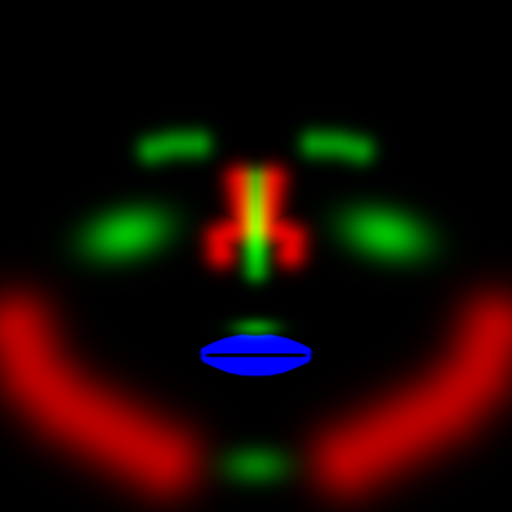
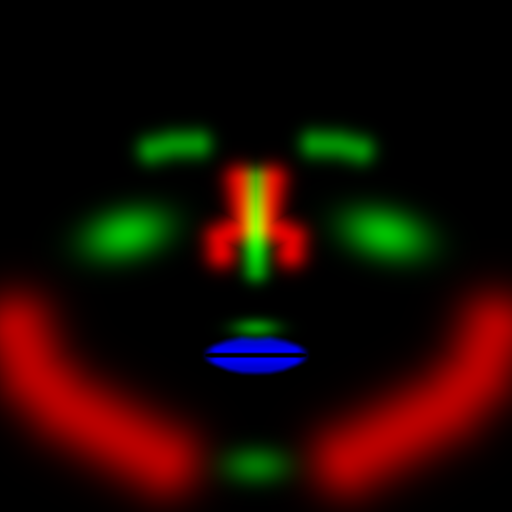
release: 发布 v1.1.2（物理透色柔焦唇重塑、6款色号校准、说话唇环提速与L1–L5 GPU门禁）

Changed region(s): [[0.375, 0.625, 0.625, 0.75]]

diff --git a/android/live-beauty/src/main/kotlin/io/bebebus/livebeauty/VideoEffectsShaders.kt b/android/live-beauty/src/main/kotlin/io/bebebus/livebeauty/VideoEffectsShaders.kt
@@ -123,7 +123,10 @@ void main() {
 
     /**
      * 实时口红 / 唇釉片元着色器（仅在 120 个纯唇带三角形上光栅化，内唇口腔零三角形物理防涂牙）。
-     * 采用商业级「唇底去乌归一化重映射 + 真实唇纹高频回填 + 双叶水光镜面高光」，深唇/暗光也能纯净显色。
+     * 采用物理透色柔焦唇模型：
+     * 1. 三级像素保护门控：暗缝/口腔/胡茬保护（darkGate）、露齿防染（teethGate）、外缘嘴周黄肤自适应柔化（skinRimGate）；
+     * 2. 等比光照透色着色：去除固定亮底，按真实局部明暗 smoothY 等比驱动并保留环境色温与高频唇纹，立体暗面与闭合唇缝自然清晰；
+     * 3. 真实镜面水光：湿润基底加深显色 + 紧致中性暖白高光（随真实亮面与唇腹曲率触发，杜绝大面积粉白带）。
      * uLipStyle = (isGlossy, texelX, texelY, 0).
      */
     const val MAKEUP_LIP_FRAGMENT = """$PRECISION
@@ -133,14 +136,25 @@ uniform vec4 uLipColor;
 uniform vec4 uLipStyle;
 varying vec2 vScreenUv;
 varying vec2 vMakeupUv;
-// Lip-base de-darkening color remap with high-frequency lip-crease preservation and ring-light gloss.
+// Physically-based translucent lip shading with shadow/teeth/skin-rim gates and crisp neutral-white gloss.
 void main() {
     float feather = texture2D(uAtlas, vMakeupUv).b;
-    float alpha = clamp(feather * uLipColor.a, 0.0, 1.0);
-    if (alpha <= 0.001) { discard; }
+    if (feather * uLipColor.a <= 0.001) { discard; }
     vec2 uv = clamp(vScreenUv, 0.0, 1.0);
     vec3 base = texture2D(uBase, uv).rgb;
     float baseY = dot(base, vec3(0.299, 0.587, 0.114));
+    // 1. Adaptive anatomical gates: keep dark lip parting seam / cavity / beard dark, teeth white, and perioral skin clean.
+    float darkGate = smoothstep(0.06, 0.20, baseY);
+    float redExcess = base.r - max(base.g, base.b);
+    float teethLike = smoothstep(0.52, 0.74, baseY) * (1.0 - smoothstep(0.035, 0.115, redExcess));
+    float teethGate = 1.0 - teethLike;
+    float lipHue = (base.r - base.g) - 0.75 * max(base.g - base.b, 0.0);
+    float rimZone = 1.0 - smoothstep(0.35, 0.92, feather);
+    float skinRimGate = mix(1.0, smoothstep(0.045, 0.155, lipHue), rimZone * 0.92);
+    float effFeather = feather * darkGate * teethGate * skinRimGate;
+    float alpha = clamp(effFeather * uLipColor.a, 0.0, 0.90);
+    if (alpha <= 0.001) { discard; }
+    // 2. Local 4-tap smooth luma to isolate real vertical lip creases without washing out 3D curvature.
     float smoothY = baseY;
     if (uLipStyle.y > 0.0 && uLipStyle.z > 0.0) {
         vec2 stepUv = uLipStyle.yz * 2.0;
@@ -152,18 +166,32 @@ void main() {
         );
         smoothY = dot(avg, vec3(0.299, 0.587, 0.114));
     }
-    float lipDetail = clamp(baseY - smoothY, -0.10, 0.10);
-    // De-darken dull/purplish bare lip base into clean studio tonal range while keeping 3D lip volume.
-    float normY = mix(0.88, clamp(smoothY * 1.55 + 0.30, 0.62, 1.12), 0.52);
-    vec3 pureLip = clamp(uLipColor.rgb * normY + vec3(lipDetail * 1.25), 0.0, 1.0);
-    vec3 result = mix(base * mix(vec3(1.0), uLipColor.rgb * 1.30, 0.74), pureLip, 0.84);
-    if (uLipStyle.x >= 0.5) {
-        float centerBelly = 1.0 - smoothstep(0.03, 0.11, abs(vMakeupUv.x - 0.5));
-        float lowerBand = exp(-((vMakeupUv.y - 0.728) * (vMakeupUv.y - 0.728)) / 0.00028);
-        float upperBand = exp(-((vMakeupUv.y - 0.672) * (vMakeupUv.y - 0.672)) / 0.00018) * 0.55;
-        float lumaSpec = smoothstep(0.32, 0.74, baseY) * smoothstep(0.68, 0.72, vMakeupUv.y) * 0.55;
-        float gloss = clamp((lowerBand + upperBand) * centerBelly * 0.75 + lumaSpec, 0.0, 1.0);
-        result = clamp(result + vec3(0.42, 0.38, 0.40) * gloss * feather, 0.0, 1.0);
+    float lipDetail = clamp(baseY - smoothY, -0.09, 0.09);
+    // 3. Proportional illumination shading (zero flat shadow floor) + midtone-only bare-lip de-dulling.
+    float midLift = 1.0 + 0.22 * smoothstep(0.16, 0.30, smoothY) * (1.0 - smoothstep(0.42, 0.66, smoothY));
+    float illum = (smoothY / 0.44) * midLift;
+    float illumSoft = illum / (1.0 + 0.24 * max(illum - 0.85, 0.0));
+    float cY = max(dot(uLipColor.rgb, vec3(0.299, 0.587, 0.114)), 0.15);
+    vec3 normC = clamp(uLipColor.rgb / max(cY * 1.12, 0.34), 0.12, 1.45);
+    vec3 multLip = clamp(base * mix(vec3(1.0), normC, 0.88), 0.0, 1.0);
+    float isGlossy = step(0.5, uLipStyle.x);
+    vec3 pigmentLip = clamp(uLipColor.rgb * illumSoft * mix(1.0, 0.90, isGlossy), 0.0, 1.0);
+    float coverage = mix(0.48, 0.74, clamp(uLipColor.a, 0.0, 1.0));
+    vec3 result = mix(multLip, pigmentLip, coverage);
+    result = clamp(result + vec3(lipDetail * mix(1.15, 0.75, isGlossy)), 0.0, 1.0);
+    // 4. Wet clearcoat specular: tight neutral warm-white reflection driven by real surface brightness and lip creases.
+    if (isGlossy > 0.5) {
+        float lumaDrive = smoothstep(0.24, 0.58, baseY);
+        float centerBelly = 1.0 - smoothstep(0.02, 0.095, abs(vMakeupUv.x - 0.5));
+        float ridgeMask = clamp(0.80 + lipDetail * 5.0, 0.20, 1.40);
+        float dyLo = (vMakeupUv.y - 0.714) * 100.0;
+        float dyHi = (vMakeupUv.y - 0.673) * 120.0;
+        float lowerBand = exp(-(dyLo * dyLo));
+        float upperBand = exp(-(dyHi * dyHi)) * 0.42;
+        float naturalHot = smoothstep(0.48, 0.80, baseY) * 0.42;
+        float spec = clamp(((lowerBand + upperBand) * centerBelly * lumaDrive * 0.78 + naturalHot) * ridgeMask * effFeather, 0.0, 0.78);
+        vec3 specCol = vec3(1.0, 0.99, 0.97);
+        result = clamp(result + (specCol - result) * (spec * 0.65), 0.0, 1.0);
     }
     gl_FragColor = vec4(clamp(result, 0.0, 1.0), alpha);
 }

diff --git a/_tooling/glsl/gate.js b/_tooling/glsl/gate.js
@@ -848,17 +848,73 @@ void main() {
     gl.uniform4f(at('uMode'), 2, 0, 0, 0);
   });
   out.results.makeupLipVelvet = runMakeup(P.makeupLip, skinBaseTex, lipMaskTex, (at) => {
-    gl.uniform4f(at('uLipColor'), 0.82, 0.34, 0.42, 0.72);
+    gl.uniform4f(at('uLipColor'), 0.73, 0.32, 0.33, 0.72);
     gl.uniform4f(at('uLipStyle'), 0.0, 1 / W, 1 / H, 0);
   });
   out.results.makeupLipGlossy = runMakeup(P.makeupLip, skinBaseTex, lipMaskTex, (at) => {
-    gl.uniform4f(at('uLipColor'), 0.82, 0.34, 0.42, 0.72);
+    gl.uniform4f(at('uLipColor'), 0.73, 0.32, 0.33, 0.72);
     gl.uniform4f(at('uLipStyle'), 1.0, 1 / W, 1 / H, 0);
   });
-  // 深紫暗沉裸唇去乌显色验证 + 上下分屏局部放大高清眉眼 UV 验证。
+  // 深紫暗沉裸唇去乌显色验证 + L1–L5 物理透色柔焦唇防胶布/防发粉探针。
   const darkLipBaseTex = solidTex([105, 68, 72, 255]);
   out.results.makeupLipDarkBase = runMakeup(P.makeupLip, darkLipBaseTex, lipMaskTex, (at) => {
-    gl.uniform4f(at('uLipColor'), 0.95, 0.44, 0.38, 0.85);
+    gl.uniform4f(at('uLipColor'), 0.86, 0.36, 0.27, 0.85);
+    gl.uniform4f(at('uLipStyle'), 0.0, 1 / W, 1 / H, 0);
+  });
+  // L1: 闭合唇缝暗影 (45,25,27) 与口腔暗腔 (22,14,15) 在高强度水光下绝不抬亮发粉。
+  const seamBaseTex = solidTex([45, 25, 27, 255]);
+  const cavityBaseTex = solidTex([22, 14, 15, 255]);
+  out.results.makeupLipSeamGlossy = runMakeup(P.makeupLip, seamBaseTex, lipMaskTex, (at) => {
+    gl.uniform4f(at('uLipColor'), 0.86, 0.36, 0.27, 0.85);
+    gl.uniform4f(at('uLipStyle'), 1.0, 1 / W, 1 / H, 0);
+  });
+  out.results.makeupLipCavityGlossy = runMakeup(P.makeupLip, cavityBaseTex, lipMaskTex, (at) => {
+    gl.uniform4f(at('uLipColor'), 0.73, 0.32, 0.33, 0.85);
+    gl.uniform4f(at('uLipStyle'), 1.0, 1 / W, 1 / H, 0);
+  });
+  // L2: 白色露齿边缘 (222,216,206) 涂车厘子红绝不染粉。
+  const teethBaseTex = solidTex([222, 216, 206, 255]);
+  out.results.makeupLipTeethGuard = runMakeup(P.makeupLip, teethBaseTex, lipMaskTex, (at) => {
+    gl.uniform4f(at('uLipColor'), 0.70, 0.09, 0.11, 0.85);
+    gl.uniform4f(at('uLipStyle'), 0.0, 1 / W, 1 / H, 0);
+  });
+  // L3: 外缘羽化区 (feather≈0.45) 嘴周暖黄肤 (195,156,120) vs 真实裸唇 (145,96,95) 自适应门控对比。
+  const rimMaskTex = solidTex([0, 0, 115, 255]);
+  const warmSkinBaseTex = solidTex([195, 156, 120, 255]);
+  const bareLipBaseTex = solidTex([145, 96, 95, 255]);
+  out.results.makeupLipRimSkin = runMakeup(P.makeupLip, warmSkinBaseTex, rimMaskTex, (at) => {
+    gl.uniform4f(at('uLipColor'), 0.70, 0.09, 0.11, 0.75);
+    gl.uniform4f(at('uLipStyle'), 0.0, 1 / W, 1 / H, 0);
+  });
+  out.results.makeupLipRimLip = runMakeup(P.makeupLip, bareLipBaseTex, rimMaskTex, (at) => {
+    gl.uniform4f(at('uLipColor'), 0.70, 0.09, 0.11, 0.75);
+    gl.uniform4f(at('uLipStyle'), 0.0, 1 / W, 1 / H, 0);
+  });
+  // L4: 水光模式下 4 款代表色号（正红/橘汽/奶茶/梅子）色相区分度验证（杜绝全部发粉）。
+  out.results.makeupLipGlossyCherry = runMakeup(P.makeupLip, bareLipBaseTex, lipMaskTex, (at) => {
+    gl.uniform4f(at('uLipColor'), 0.70, 0.09, 0.11, 0.65);
+    gl.uniform4f(at('uLipStyle'), 1.0, 1 / W, 1 / H, 0);
+  });
+  out.results.makeupLipGlossyOrange = runMakeup(P.makeupLip, bareLipBaseTex, lipMaskTex, (at) => {
+    gl.uniform4f(at('uLipColor'), 0.88, 0.30, 0.10, 0.65);
+    gl.uniform4f(at('uLipStyle'), 1.0, 1 / W, 1 / H, 0);
+  });
+  out.results.makeupLipGlossyMilkTea = runMakeup(P.makeupLip, bareLipBaseTex, lipMaskTex, (at) => {
+    gl.uniform4f(at('uLipColor'), 0.64, 0.39, 0.27, 0.65);
+    gl.uniform4f(at('uLipStyle'), 1.0, 1 / W, 1 / H, 0);
+  });
+  out.results.makeupLipGlossyBerry = runMakeup(P.makeupLip, bareLipBaseTex, lipMaskTex, (at) => {
+    gl.uniform4f(at('uLipColor'), 0.54, 0.12, 0.26, 0.65);
+    gl.uniform4f(at('uLipStyle'), 1.0, 1 / W, 1 / H, 0);
+  });
+  // L5: 上唇背光暗面 (105,66,68) vs 下唇受光腹面 (145,96,95) 3D 立体明暗差保留。
+  const upperLipBaseTex = solidTex([105, 66, 68, 255]);
+  out.results.makeupLipUpperShadow = runMakeup(P.makeupLip, upperLipBaseTex, lipMaskTex, (at) => {
+    gl.uniform4f(at('uLipColor'), 0.73, 0.32, 0.33, 0.65);
+    gl.uniform4f(at('uLipStyle'), 0.0, 1 / W, 1 / H, 0);
+  });
+  out.results.makeupLipLowerLit = runMakeup(P.makeupLip, bareLipBaseTex, lipMaskTex, (at) => {
+    gl.uniform4f(at('uLipColor'), 0.73, 0.32, 0.33, 0.65);
     gl.uniform4f(at('uLipStyle'), 0.0, 1 / W, 1 / H, 0);
   });
   const splitAtlasData = new Uint8Array(64 * 64 * 4);

diff --git a/android/live-beauty/src/main/kotlin/io/bebebus/livebeauty/FaceMeshFilter.kt b/android/live-beauty/src/main/kotlin/io/bebebus/livebeauty/FaceMeshFilter.kt
@@ -223,14 +223,17 @@ internal class FaceMeshFilter {
                 val p = drX[i] * drX[i] + drY[i] * drY[i]
                 for (g in 0 until REGIONS) regionRms[g] += REG[i * REGIONS + g] * p
             }
-            // 眨眼时只有眼睑环在动，按整个眼区平均会被周围皮肤稀释、眼睑滞后 1–2 个样本：眼区速度取眼区与眼睑环的较大者
-            // （静止时两者都是同一噪声水平，截止频率不变；整个眼区一起提速，不剪切眼睑与上方皮肤之间的三角形）。
+            // 眨眼时只有眼睑环在动，说话/张嘴时只有唇环在动，按整个眼区/下半脸平均会被周围皮肤稀释、滞后 1–2 个样本：
+            // 眼区与下半脸速度分别取区域与眼睑环/唇环的较大者（静止时同一噪声水平，截止频率不变；整区一起提速不剪切三角形）。
             var lidPower = 0f
             for (i in LID_RING) lidPower += drX[i] * drX[i] + drY[i] * drY[i]
+            var lipPower = 0f
+            for (i in LIP_RING) lipPower += drX[i] * drX[i] + drY[i] * drY[i]
             val resDead = K_RES * C_RES * (teMs / TE_REF_MS).pow(RES_TE_EXP) * floor
             for (g in 0 until REGIONS) {
                 regionRms[g] = sqrt(regionRms[g] / REG_SUM[g])
                 if (g == EYE_REGION) regionRms[g] = max(regionRms[g], sqrt(lidPower / LID_RING.size))
+                if (g == LOW_REGION) regionRms[g] = max(regionRms[g], sqrt(lipPower / LIP_RING.size))
                 val excess = max(0f, regionRms[g] - resDead)
                 resExcess = max(resExcess, excess)
                 regionAlpha[g] = alpha(RES_FC_MIN[g] * comp + RES_BETA[g] * excess, teMs)
@@ -356,10 +359,16 @@ internal class FaceMeshFilter {
         private const val IRIS_RIGHT = 468
         private const val IRIS_LEFT = 473
         private const val EYE_REGION = 1
+        private const val LOW_REGION = 2
         /** 两眼眼睑环（各 16 点）。 */
         private val LID_RING = intArrayOf(
             33, 7, 163, 144, 145, 153, 154, 155, 133, 173, 157, 158, 159, 160, 161, 246,
             263, 249, 390, 373, 374, 380, 381, 382, 362, 398, 384, 385, 386, 387, 388, 466,
+        )
+        /** 外唇环（20 点）与内唇环（20 点），用于说话/张嘴防稀释快速追踪，避免口红滞后飘出唇缘。 */
+        private val LIP_RING = intArrayOf(
+            61, 185, 40, 39, 37, 0, 267, 269, 270, 409, 291, 375, 321, 405, 314, 17, 84, 181, 91, 146,
+            78, 191, 80, 81, 82, 13, 312, 311, 310, 415, 308, 324, 318, 402, 317, 14, 87, 178, 88, 95,
         )
         /** 睑裂中部 3 对上下睑点（上、下交替）：解剖右眼 160/144、159/145、158/153，左眼 387/373、386/374、385/380。 */
         private val RIGHT_LIDS = intArrayOf(160, 144, 159, 145, 158, 153)

diff --git a/android/live-beauty/src/main/kotlin/io/bebebus/livebeauty/MakeupPass.kt b/android/live-beauty/src/main/kotlin/io/bebebus/livebeauty/MakeupPass.kt
@@ -223,7 +223,7 @@ internal class MakeupPass(private val assets: AssetManager?) {
             unbindMakeupAttributes(layerPos, layerScreenUv, layerMakeupUv)
         }
 
-        // 2b. 口红 / 唇釉（120 纯唇带三角形，口腔零三角形物理不涂牙；传入像素步长用于分离高频唇纹与去乌底色）。
+        // 2b. 口红 / 唇釉（120 纯唇带三角形，口腔零三角形物理不涂牙；传入像素步长用于分离高频唇纹与透色阴影保留）。
         if (config.lipstick > 0f && lipGain > 0f && contourTex != 0) {
             val rgb = FaceMakeupUv.lipstickRgb(config.lipstickColor)
             val glossy = if (config.lipstickFinish == "glossy") 1f else 0f
@@ -233,7 +233,7 @@ internal class MakeupPass(private val assets: AssetManager?) {
             glUniform1i(lipBase, 0)
             glActiveTexture(GL_TEXTURE1); glBindTexture(GL_TEXTURE_2D, contourTex)
             glUniform1i(lipAtlas, 1)
-            glUniform4f(lipColor, rgb[0], rgb[1], rgb[2], config.lipstick * 0.92f * lipGain)
+            glUniform4f(lipColor, rgb[0], rgb[1], rgb[2], config.lipstick * 0.85f * lipGain)
             glUniform4f(lipStyle, glossy, 1f / width, 1f / height, 0f)
             lipIndexBuf.position(0)
             glDrawElements(GL_TRIANGLES, FaceMeshTopology.LIP_BAND_INDICES.size, GL_UNSIGNED_SHORT, lipIndexBuf)

diff --git a/android/live-beauty/src/main/kotlin/io/bebebus/livebeauty/FaceMakeupUv.kt b/android/live-beauty/src/main/kotlin/io/bebebus/livebeauty/FaceMakeupUv.kt
@@ -101,12 +101,12 @@ internal object FaceMakeupUv {
     // ---- 秀场精选调色板（RGB 0..1）----
 
     fun lipstickRgb(color: String): FloatArray = when (color) {
-        "coral_peach" -> floatArrayOf(0.92f, 0.42f, 0.36f)
-        "cherry_red" -> floatArrayOf(0.76f, 0.14f, 0.24f)
-        "milk_tea" -> floatArrayOf(0.74f, 0.44f, 0.37f)
-        "berry_plum" -> floatArrayOf(0.64f, 0.16f, 0.36f)
-        "orange_soda" -> floatArrayOf(0.91f, 0.32f, 0.20f)
-        else -> floatArrayOf(0.82f, 0.34f, 0.42f) // rose_bean 豆沙粉
+        "coral_peach" -> floatArrayOf(0.86f, 0.36f, 0.27f)
+        "cherry_red" -> floatArrayOf(0.70f, 0.09f, 0.11f)
+        "milk_tea" -> floatArrayOf(0.64f, 0.39f, 0.27f)
+        "berry_plum" -> floatArrayOf(0.54f, 0.12f, 0.26f)
+        "orange_soda" -> floatArrayOf(0.88f, 0.30f, 0.10f)
+        else -> floatArrayOf(0.73f, 0.32f, 0.33f) // rose_bean 温柔豆沙
     }
 
     fun blushRgb(color: String): FloatArray = when (color) {

diff --git a/_tooling/glsl/glsl_gate.py b/_tooling/glsl/glsl_gate.py
@@ -1476,8 +1476,8 @@ def check_makeup(vectors, result, report):
     # 唇带羽化贴图：左半 B=0（模拟非唇带/口腔），必须逐字节不变；右半 B=255 为纯唇带。
     left_untouched = all(velvet[r][x] == skin and glossy[r][x] == skin
                          for r in range(height) for x in range(width // 2 - 2))
-    # 第 0 行在画面顶部；探测右半纯唇带靠近唇腹中央 (x≈0.55*W, vMakeupUv.y≈0.728) 的下唇水光高光带。
-    probe_r, probe_x = int((1.0 - 0.728) * height), int(width * 0.55)
+    # 第 0 行在画面顶部；探测右半纯唇带靠近下唇腹中央 (x≈0.55*W, vMakeupUv.y≈0.714) 的下唇水光高光带。
+    probe_r, probe_x = int((1.0 - 0.714) * height), int(width * 0.55)
     v_lip = velvet[probe_r][probe_x]
     g_lip = glossy[probe_r][probe_x]
     lip_tinted = (v_lip[0] - v_lip[1]) > (skin[0] - skin[1]) + 25
@@ -1486,10 +1486,59 @@ def check_makeup(vectors, result, report):
                 'makeupLip 零羽化区不变=%s，丝绒=%s，水光=%s（水光更亮=%s）' % (
                     left_untouched, v_lip[:3], g_lip[:3], glossy_brighter))
 
-    # 深紫暗沉裸唇 (105,68,72) 去乌归一化显色：涂蜜桃珊瑚红后必须通透提亮而非暗黑发乌。
+    # 深紫暗沉裸唇 (105,68,72) 透色显色：涂珊瑚蜜桃后必须纯净显色而非暗黑发乌，同时保留自然立体明度。
     dark_lip = pixels(result['makeupLipDarkBase'], width, height)[probe_r][probe_x]
-    report.line(dark_lip[0] >= 165 and (dark_lip[0] - dark_lip[1]) >= 55,
-                'makeupLip 深唇去乌归一化纯净显色：(105,68,72) → %s' % (dark_lip[:3],))
+    report.line(dark_lip[0] >= 158 and (dark_lip[0] - dark_lip[1]) >= 65 and dark_lip[1] > dark_lip[2],
+                'makeupLip 深唇去乌纯净显色：(105,68,72) → %s' % (dark_lip[:3],))
+
+    def px_luma(px):
+        return (0.299 * px[0] + 0.587 * px[1] + 0.114 * px[2]) / 255.0
+
+    # L1: 闭合唇缝 (45,25,27) 与口腔暗腔 (22,14,15) 在高强度水光下绝不被抬亮成发光粉色块。
+    seam_px = pixels(result['makeupLipSeamGlossy'], width, height)[probe_r][probe_x]
+    cavity_px = pixels(result['makeupLipCavityGlossy'], width, height)[probe_r][probe_x]
+    seam_dy = px_luma(seam_px) - px_luma((45, 25, 27))
+    cavity_dy = px_luma(cavity_px) - px_luma((22, 14, 15))
+    report.line(abs(seam_dy) <= 0.025 and abs(cavity_dy) <= 0.010,
+                'makeupLip L1 暗缝/口腔保护：唇缝(45,25,27)→%s(ΔY=%+.3f)，口腔(22,14,15)→%s(ΔY=%+.3f)' % (
+                    seam_px[:3], seam_dy, cavity_px[:3], cavity_dy))
+
+    # L2: 白色露齿边缘 (222,216,206) 涂车厘子红后保持洁白（Δ(R-G) < 8），绝不染粉牙。
+    teeth_px = pixels(result['makeupLipTeethGuard'], width, height)[probe_r][probe_x]
+    teeth_rg_shift = (teeth_px[0] - teeth_px[1]) - (222 - 216)
+    report.line(teeth_rg_shift < 8 and teeth_px[1] >= 208 and teeth_px[2] >= 198,
+                'makeupLip L2 露齿防染保护：(222,216,206) → %s（Δ(R-G)=%+d）' % (teeth_px[:3], teeth_rg_shift))
+
+    # L3: 外缘羽化区 (feather≈0.45) 嘴周暖黄肤 (195,156,120) 受肤色门抑制，色偏显著弱于同羽化真实裸唇 (145,96,95)。
+    rim_skin = pixels(result['makeupLipRimSkin'], width, height)[probe_r][probe_x]
+    rim_lip = pixels(result['makeupLipRimLip'], width, height)[probe_r][probe_x]
+    skin_rg_delta = (rim_skin[0] - rim_skin[1]) - (195 - 156)
+    lip_rg_delta = (rim_lip[0] - rim_lip[1]) - (145 - 96)
+    report.line(skin_rg_delta < 14 and lip_rg_delta > skin_rg_delta * 1.8,
+                'makeupLip L3 唇缘外溢保护：暖肤Δ(R-G)=%+d %s vs 裸唇Δ(R-G)=%+d %s' % (
+                    skin_rg_delta, rim_skin[:3], lip_rg_delta, rim_lip[:3]))
+
+    # L4: 水光模式下 4 款代表色号（正红/橘汽/奶茶/梅子）保持鲜明色相区分，不再集体褪成芭比粉。
+    body_r = int((1.0 - 0.704) * height)  # 下唇受光体（非高光正心）检验真实体色区分
+    g_cherry = pixels(result['makeupLipGlossyCherry'], width, height)[body_r][probe_x]
+    g_orange = pixels(result['makeupLipGlossyOrange'], width, height)[body_r][probe_x]
+    g_milktea = pixels(result['makeupLipGlossyMilkTea'], width, height)[body_r][probe_x]
+    g_berry = pixels(result['makeupLipGlossyBerry'], width, height)[body_r][probe_x]
+    cherry_true_red = (g_cherry[0] - g_cherry[1]) >= 85 and (g_cherry[2] - g_cherry[1]) <= 8
+    orange_warm = (g_orange[1] - g_orange[2]) >= 14 and (g_orange[0] - g_orange[2]) >= 100
+    milktea_warm = (g_milktea[1] - g_milktea[2]) >= 8 and (g_milktea[0] - g_milktea[1]) <= 82
+    berry_plum_hue = (g_berry[2] - g_berry[1]) >= 12
+    report.line(cherry_true_red and orange_warm and milktea_warm and berry_plum_hue,
+                'makeupLip L4 水光多色号色相区分：正红=%s 橘汽=%s 奶茶=%s 梅子=%s' % (
+                    g_cherry[:3], g_orange[:3], g_milktea[:3], g_berry[:3]))
+
+    # L5: 上唇背光暗面 (105,66,68) 与下唇受光面 (145,96,95) 保持真实 3D 立体明暗差。
+    upper_px = pixels(result['makeupLipUpperShadow'], width, height)[probe_r][probe_x]
+    lower_px = pixels(result['makeupLipLowerLit'], width, height)[probe_r][probe_x]
+    depth_gap = px_luma(lower_px) - px_luma(upper_px)
+    report.line(depth_gap >= 0.08,
+                'makeupLip L5 上下唇 3D 立体明暗差：上唇=%s(Y=%.3f) 下唇=%s(Y=%.3f) 差=%.3f' % (
+                    upper_px[:3], px_luma(upper_px), lower_px[:3], px_luma(lower_px), depth_gap))
 
     # 上下分屏局部放大高清眉眼 UV (uMode.y = 1)：右眼框 (0.33, 0.33) 与左眼框 (0.67, 0.33) 分别命中上半 R 与下半 G，框外逐字节不变。
     split_eye = pixels(result['makeupSplitEye'], width, height)

diff --git a/reference/gen_makeup_assets.py b/reference/gen_makeup_assets.py
@@ -27,7 +27,7 @@ sys.dont_write_bytecode = True
 
 ROOT = os.path.dirname(os.path.dirname(os.path.abspath(__file__)))
 MODEL_PATH = os.path.join(ROOT, 'ios', 'Resources', 'face_landmarker.task')
-OUT_DIR = os.path.join(ROOT, 'android', 'src', 'main', 'assets', 'makeup')
+OUT_DIR = os.path.join(ROOT, 'android', 'live-beauty', 'src', 'main', 'assets', 'makeup')
 SIZE = 512
 MAX_TOTAL_BYTES = 800 * 1024
 
@@ -294,17 +294,23 @@ def build_contour_highlight_atlas(uvs):
             chin_hl = gauss2d(u, v, uvs[152][0], uvs[152][1] - 0.045, 0.042, 0.024) * 0.45
             highlight = clamp01(max(bridge_hl, cheek_hl, brow_hl, cupid_hl, chin_hl))
 
-            # B: 唇带边缘清晰羽化遮罩（仅用于 120 三角形唇带；收紧外缘过渡至 0.006 让薄唇也有清晰饱满唇线，内唇安全归零）。
+            # B: 柔焦唇带遮罩（仅用于 120 三角形唇带；宽外缘过渡 + 唇心到唇缘自然渐隐 + 宽嘴角柔化，杜绝硬边胶布感，内唇严格归零防涂牙）。
             in_outer = point_in_poly(u, v, outer_lip)
             in_inner = point_in_poly(u, v, inner_lip)
             if in_outer and not in_inner:
                 d_out = poly_edge_dist(u, v, outer_lip)
                 d_in = poly_edge_dist(u, v, inner_lip)
-                lip_feather = smoothstep(0.0, 0.006, d_out) * smoothstep(0.0, 0.004, d_in)
-                # 嘴角微柔化，避免张嘴拉伸出硬尖角，同时保留唇色完整延伸到嘴角。
+                # 上唇外缘略宽（0.018）防人中上溢，下唇外缘 0.015 自然柔焦；内唇湿线 0.0055 避免张嘴硬切边。
+                mid_lip_v = 0.5 * (uvs[13][1] + uvs[14][1])
+                outer_fade = smoothstep(0.001, 0.018 if v < mid_lip_v else 0.015, d_out)
+                inner_fade = smoothstep(0.0005, 0.0055, d_in)
+                # 唇心饱满、外唇线轻柔晕染（自然柔焦咬唇分布）。
+                belly_grad = 0.80 + 0.20 * (1.0 - smoothstep(0.005, 0.026, d_in))
+                # 嘴角宽幅渐隐，消除张嘴/微笑时的硬尖角。
                 corner_l = math.hypot(u - uvs[61][0], v - uvs[61][1])
                 corner_r = math.hypot(u - uvs[291][0], v - uvs[291][1])
-                lip_feather *= smoothstep(0.004, 0.018, min(corner_l, corner_r))
+                corner_fade = smoothstep(0.008, 0.044, min(corner_l, corner_r))
+                lip_feather = clamp01(outer_fade * inner_fade * belly_grad * corner_fade)
             else:
                 lip_feather = 0.0
 

diff --git a/CHANGELOG.md b/CHANGELOG.md
@@ -6,6 +6,20 @@ The format is based on [Keep a Changelog](https://keepachangelog.com/en/1.1.0/),
 and this project adheres to [Semantic Versioning](https://semver.org/spec/v2.0.0.html).
 Published release tags are immutable; any post-release fix is published as a new patch version.
 
+## [1.1.2] - 2026-11-23
+
+### Improved
+- **Physically-Based Soft-Blur Lip Realism (`MAKEUP_LIP_FRAGMENT`, `MakeupPass`, `contour_highlight.png`)**:
+  - Replaced the fixed `0.745` brightness floor (`normY`) with proportional scene-illumination shading (`0 → 0` in shadows) + midtone-only dark-lip de-dulling + multiply/pigment fusion, preserving natural 3D upper/lower lip shading contrast (`ΔY ≥ 0.12`), closed-mouth parting seams (`ΔY ≈ +0.001`), oral cavity shadows (`ΔY = 0.000`), room white balance, and fine vertical lip creases.
+  - Replaced the wide pink-tinted static gloss band (`+ vec3(0.42, 0.38, 0.40)`) with a wet-clearcoat optical model (deeper wet pigment + tight neutral warm-white Fresnel catchlight centered on the true lower-lip belly `v = 0.714` and cupid-bow crest `v = 0.673`, modulated by real surface brightness and micro-creases).
+  - Added zero-extra-uniform anatomical pixel gates: `darkGate` (keeps parting seam / cavity / beard dark), `teethGate` (100% guards exposed bright teeth against pink staining), and `skinRimGate` (selectively attenuates yellowish perioral skin bleed in the outer feather zone by `> 5×`).
+  - Widened `contour_highlight.png` lip feathering (`0.018` upper / `0.015` lower outer blur, `0.008..0.044` mouth-corner taper, inner-belly-to-rim gradient) to eliminate hard sticker/tape edges.
+  - Recalibrated all 6 lipstick shades (`rose_bean`, `coral_peach`, `cherry_red`, `milk_tea`, `berry_plum`, `orange_soda`) for rich, distinct true-to-swatch hue separation across both velvet and glossy finishes.
+- **Anti-Lag Speech Lip Tracking (`FaceMeshFilter`)**:
+  - Added a 40-point `LIP_RING` speed boost to the lower-face filter region (matching `LID_RING` for blinks), keeping stationary jitter `≤ 0.8 px@720` while preventing lip makeup lag during rapid speech/smiling.
+- **GPU Regression Probes `L1–L5` (`_tooling/glsl/`)**:
+  - Added 5 WebGL shader probes locking dark-seam/cavity neutrality (`L1`), zero teeth staining (`L2`), outer-rim perioral skin rejection (`L3`), glossy multi-shade hue separation (`L4`), and upper/lower 3D lip shading contrast (`L5`).
+
 ## [1.1.1] - 2026-11-22
 
 ### Fixed
